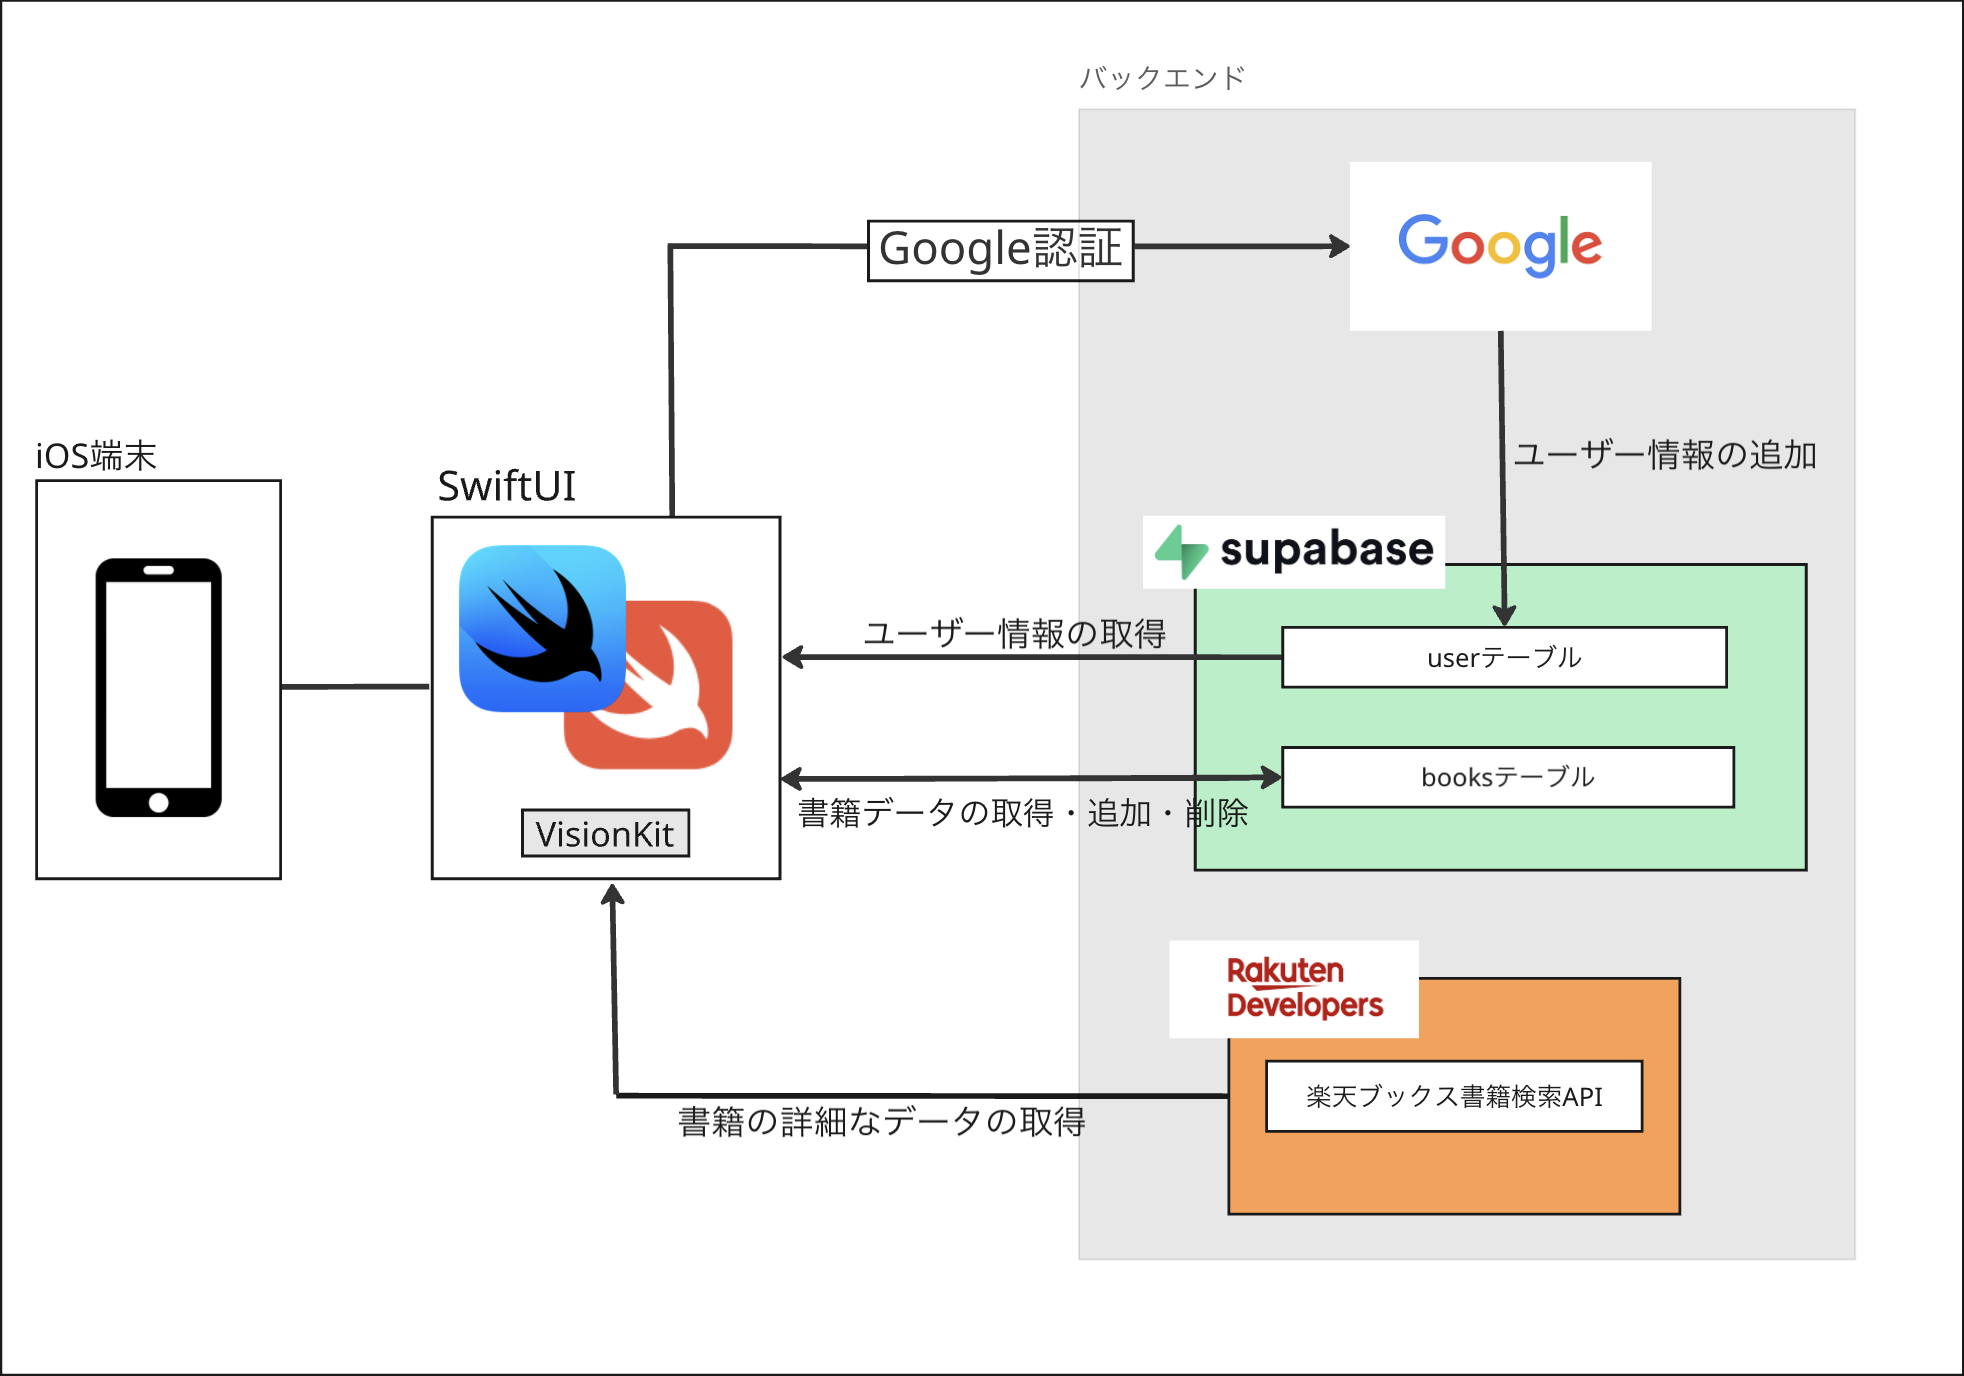
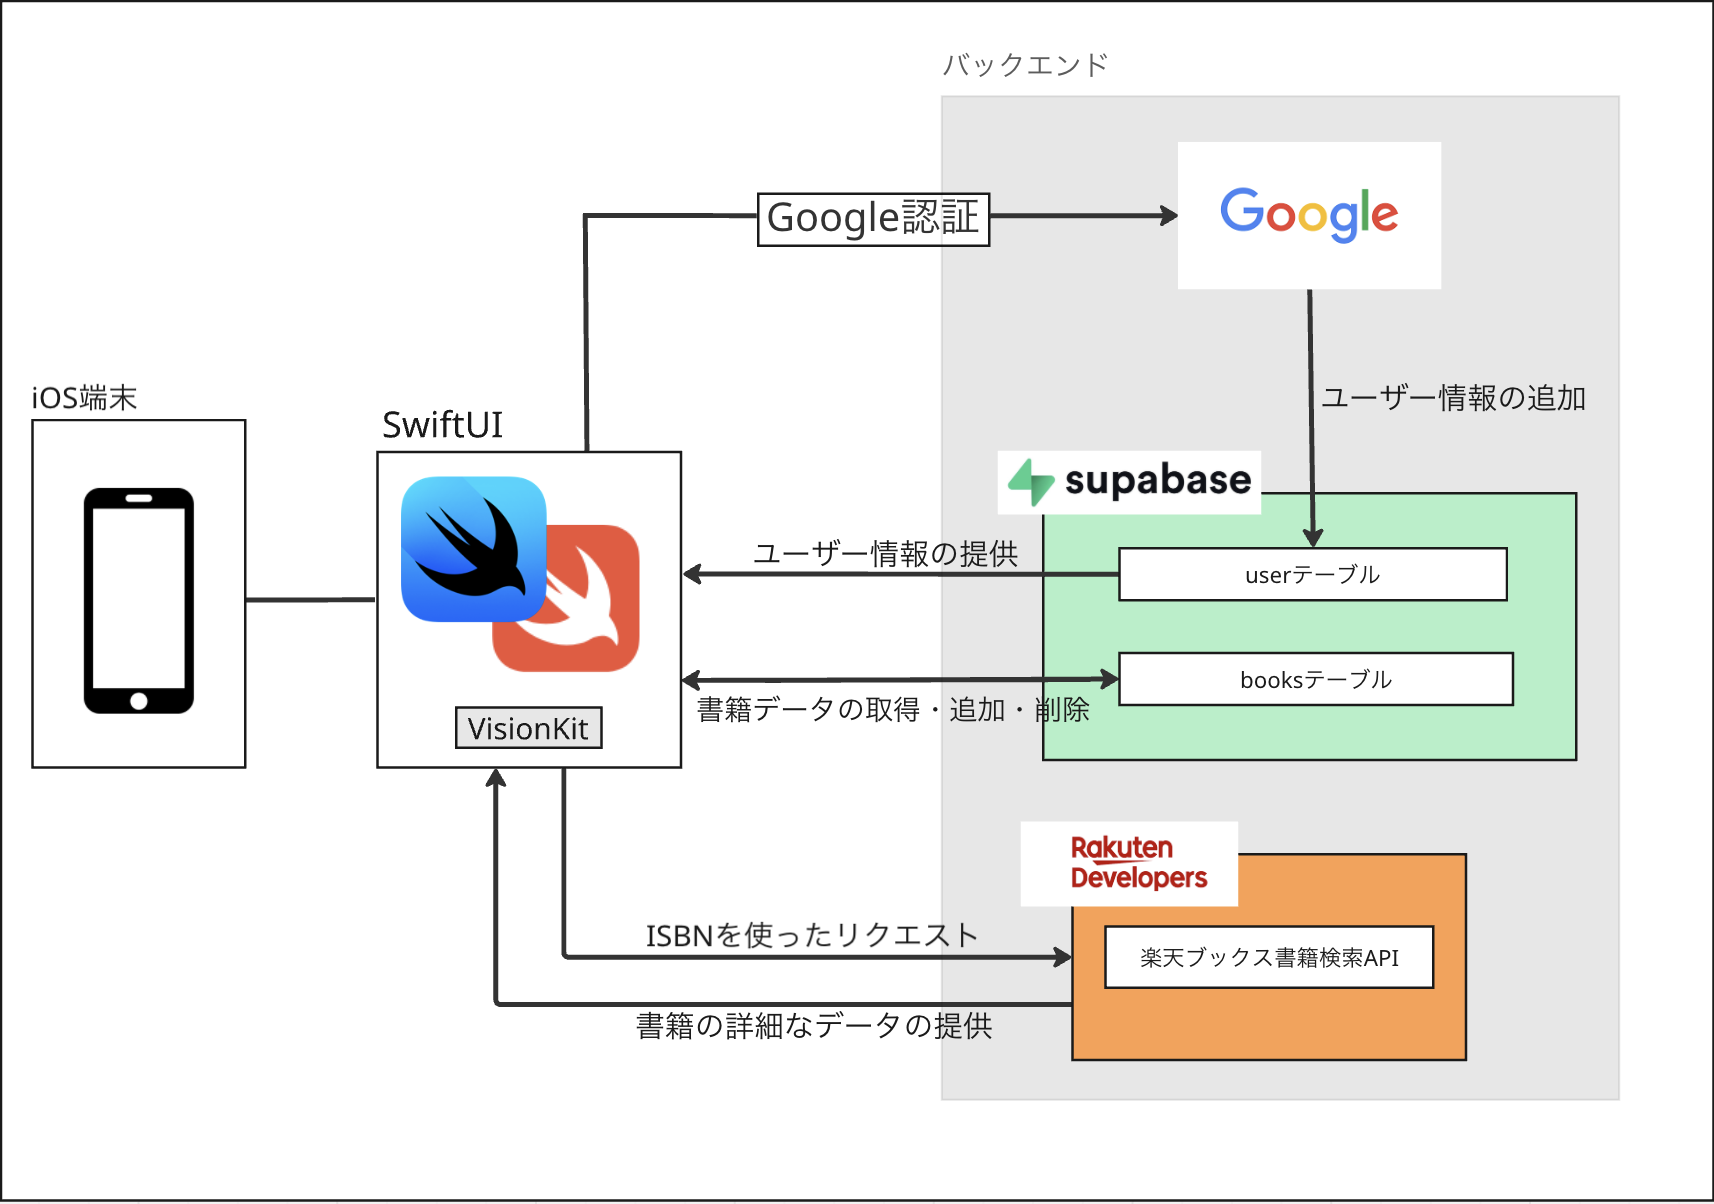
構成の一部変更と画面遷移図の追加

diff --git a/README.md b/README.md
@@ -38,20 +38,24 @@ Supabase より
 - 登録した書籍の一覧表示機能
 - 書籍詳細確認機能
 
+## 画面構成
+
+![画面遷移図](/readme-images/画面遷移図.png)
+
 | トップ画面                                         | ログイン画面                                                      | 書籍一覧画面                                            |
 | :------------------------------------------------- | :---------------------------------------------------------------- | :------------------------------------------------------ |
 | ![トップ画面](/readme-images/トップ画面.png)       | ![Googleログイン画面](/readme-images/Googleログイン画面.png)      | ![書籍一覧画面](/readme-images/書籍一覧画面_追加前.png) |
 | 認証ができていない場合に表示されるトップ画面です。 | Google 認証を使用してログイン・アカウント登録を行うとき画面です。 | 登録している書籍の一覧を見ることができます。            |
 
-| プロフィール画面                                                                                                                                             | 書籍詳細画面(1)                                                                                | 書籍詳細画面(2)                                                               |
-| :----------------------------------------------------------------------------------------------------------------------------------------------------------- | :--------------------------------------------------------------------------------------------- | :---------------------------------------------------------------------------- |
-| ![プロフィール画面](/readme-images/プロフィール画面.png)                                                                                                     | ![書籍詳細画面(1)](/readme-images/書籍詳細画面_トップ.png)                                     | ![書籍詳細画面(2)](/readme-images/書籍詳細画面_ボトム.png)                    |
-| 書籍一覧画面右上にあるボタンから遷移できます。ログアウトとアカウント削除を行うことができ、アカウント削除を実行すると登録した全ての書籍データが削除されます。 | 書籍一覧画面の書籍画像をタップした際に表示されます。書籍の詳細な情報を確認することができます。 | 書籍詳細画面の一番下の部分です。登録解除ボタンで Book List から削除できます。 |
+| プロフィール画面                                                                                                                                             | スキャナー画面                                                                                                   | (2)                                                                                                                                     | スキャン結果画 |
+| :----------------------------------------------------------------------------------------------------------------------------------------------------------- | :--------------------------------------------------------------------------------------------------------------- | :-------------------------------------------------------------------------------------------------------------------------------------- | -------------- |
+| ![プロフィール画面](/readme-images/プロフィール画面.png)                                                                                                     | ![スキャナー画面](/readme-images/スキャナー画面.PNG)                                                             | ![スキャン結果画面](/readme-images/スキャン結果画面.PNG)                                                                                |
+| 書籍一覧画面右上にあるボタンから遷移できます。ログアウトとアカウント削除を行うことができ、アカウント削除を実行すると登録した全ての書籍データが削除されます。 | 書籍一覧画面のスキャンボタンから遷移できます。バーコードを読み取ることができます。枠は目安として設置しています。 | スキャンした番号と一致する ISBN をもつ書籍データが存在する場合に表示される画面です。追加ボタンを押すと書籍を Book List に追加できます。 |
 
-| スキャナー画面                                                     | スキャン結果画面                                                                                                                        | 追加後の書籍一覧画面                                            |
-| :----------------------------------------------------------------- | :-------------------------------------------------------------------------------------------------------------------------------------- | :-------------------------------------------------------------- |
-| ![スキャナー画面](/readme-images/スキャナー画面.PNG)               | ![スキャン結果画面](/readme-images/スキャン結果画面.PNG)                                                                                | ![追加後の書籍一覧画面](/readme-images/書籍一覧画面_追加後.png) |
-| バーコードを読み取ることができます。枠は目安として設置しています。 | スキャンした番号と一致する ISBN をもつ書籍データが存在する場合に表示される画面です。追加ボタンを押すと書籍を Book List に追加できます。 | 書籍の追加後に更新された書籍一覧画面です。                      |
+| 追加後の書籍一覧画                                              | 書籍詳細画面(1)                                                                                | 書籍詳細画面(2)                                                               |
+| :-------------------------------------------------------------- | :--------------------------------------------------------------------------------------------- | :---------------------------------------------------------------------------- |
+| ![追加後の書籍一覧画面](/readme-images/書籍一覧画面_追加後.png) | ![書籍詳細画面(1)](/readme-images/書籍詳細画面_トップ.png)                                     | ![書籍詳細画面(2)](/readme-images/書籍詳細画面_ボトム.png)                    |
+| 書籍の追加後に更新された書籍一覧画面です。                      | 書籍一覧画面の書籍画像をタップした際に表示されます。書籍の詳細な情報を確認することができます。 | 書籍詳細画面の一番下の部分です。登録解除ボタンで Book List から削除できます。 |
 
 ## 今後の展望
 
